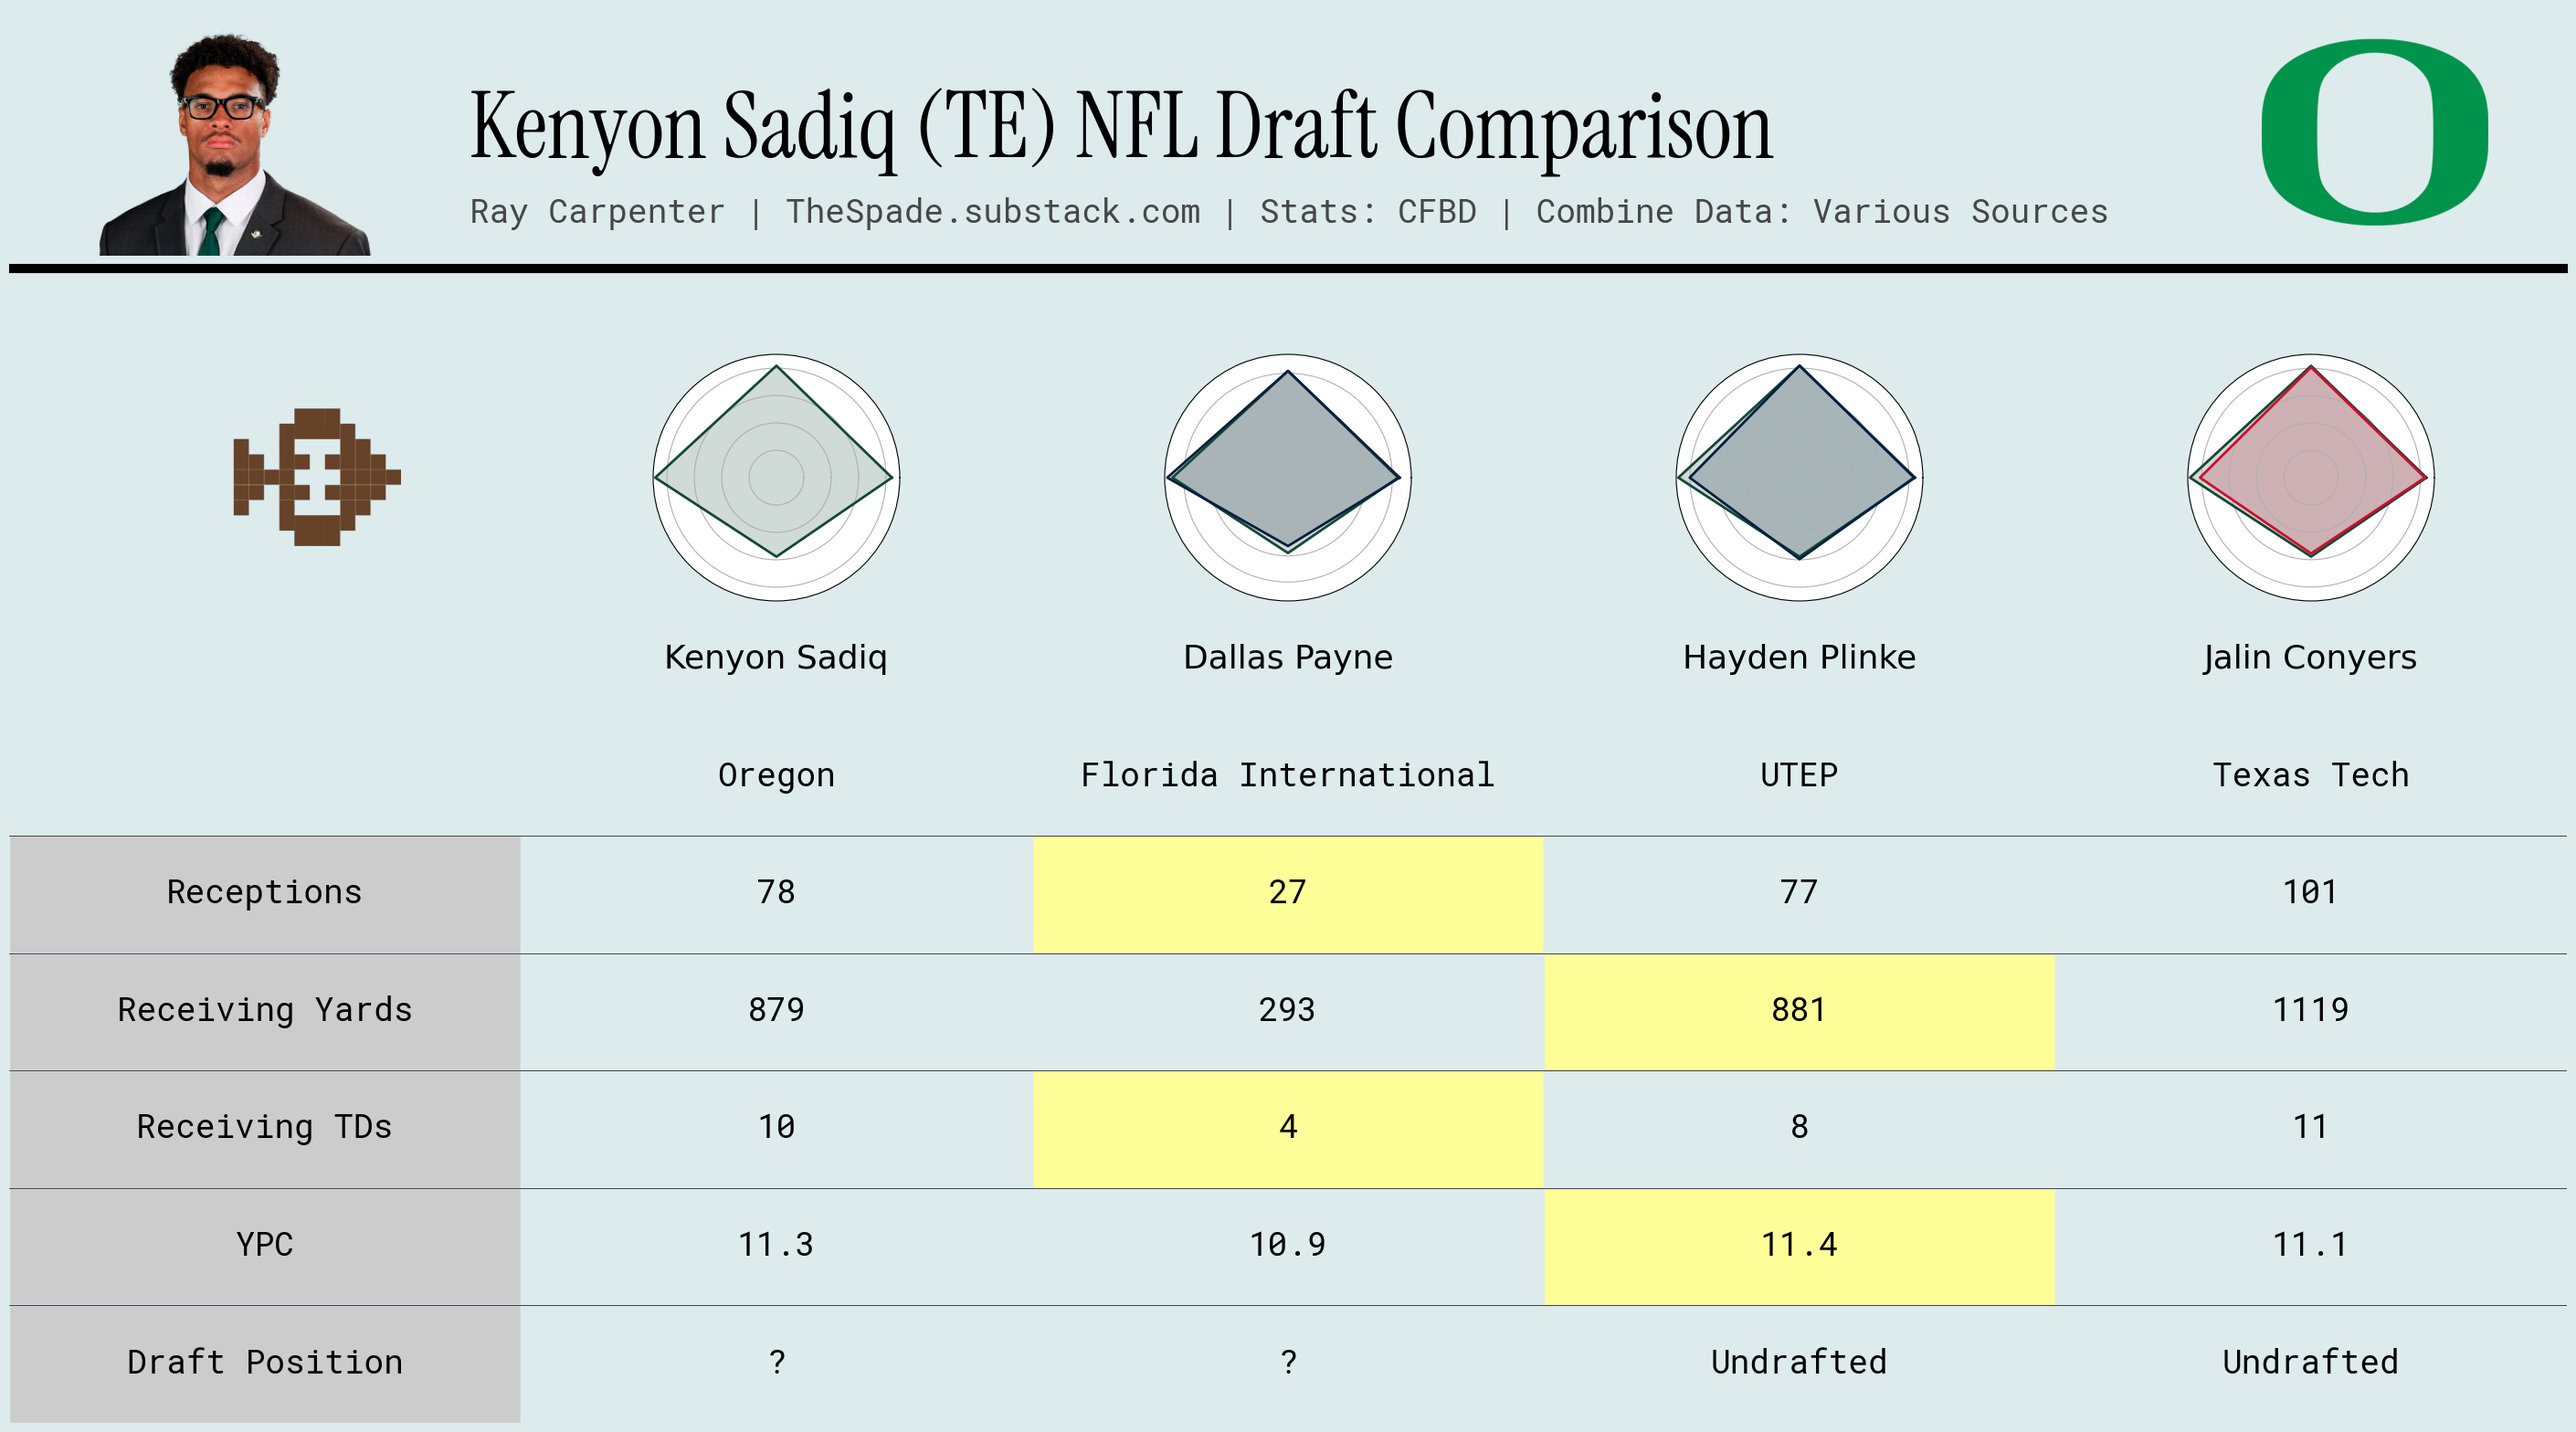
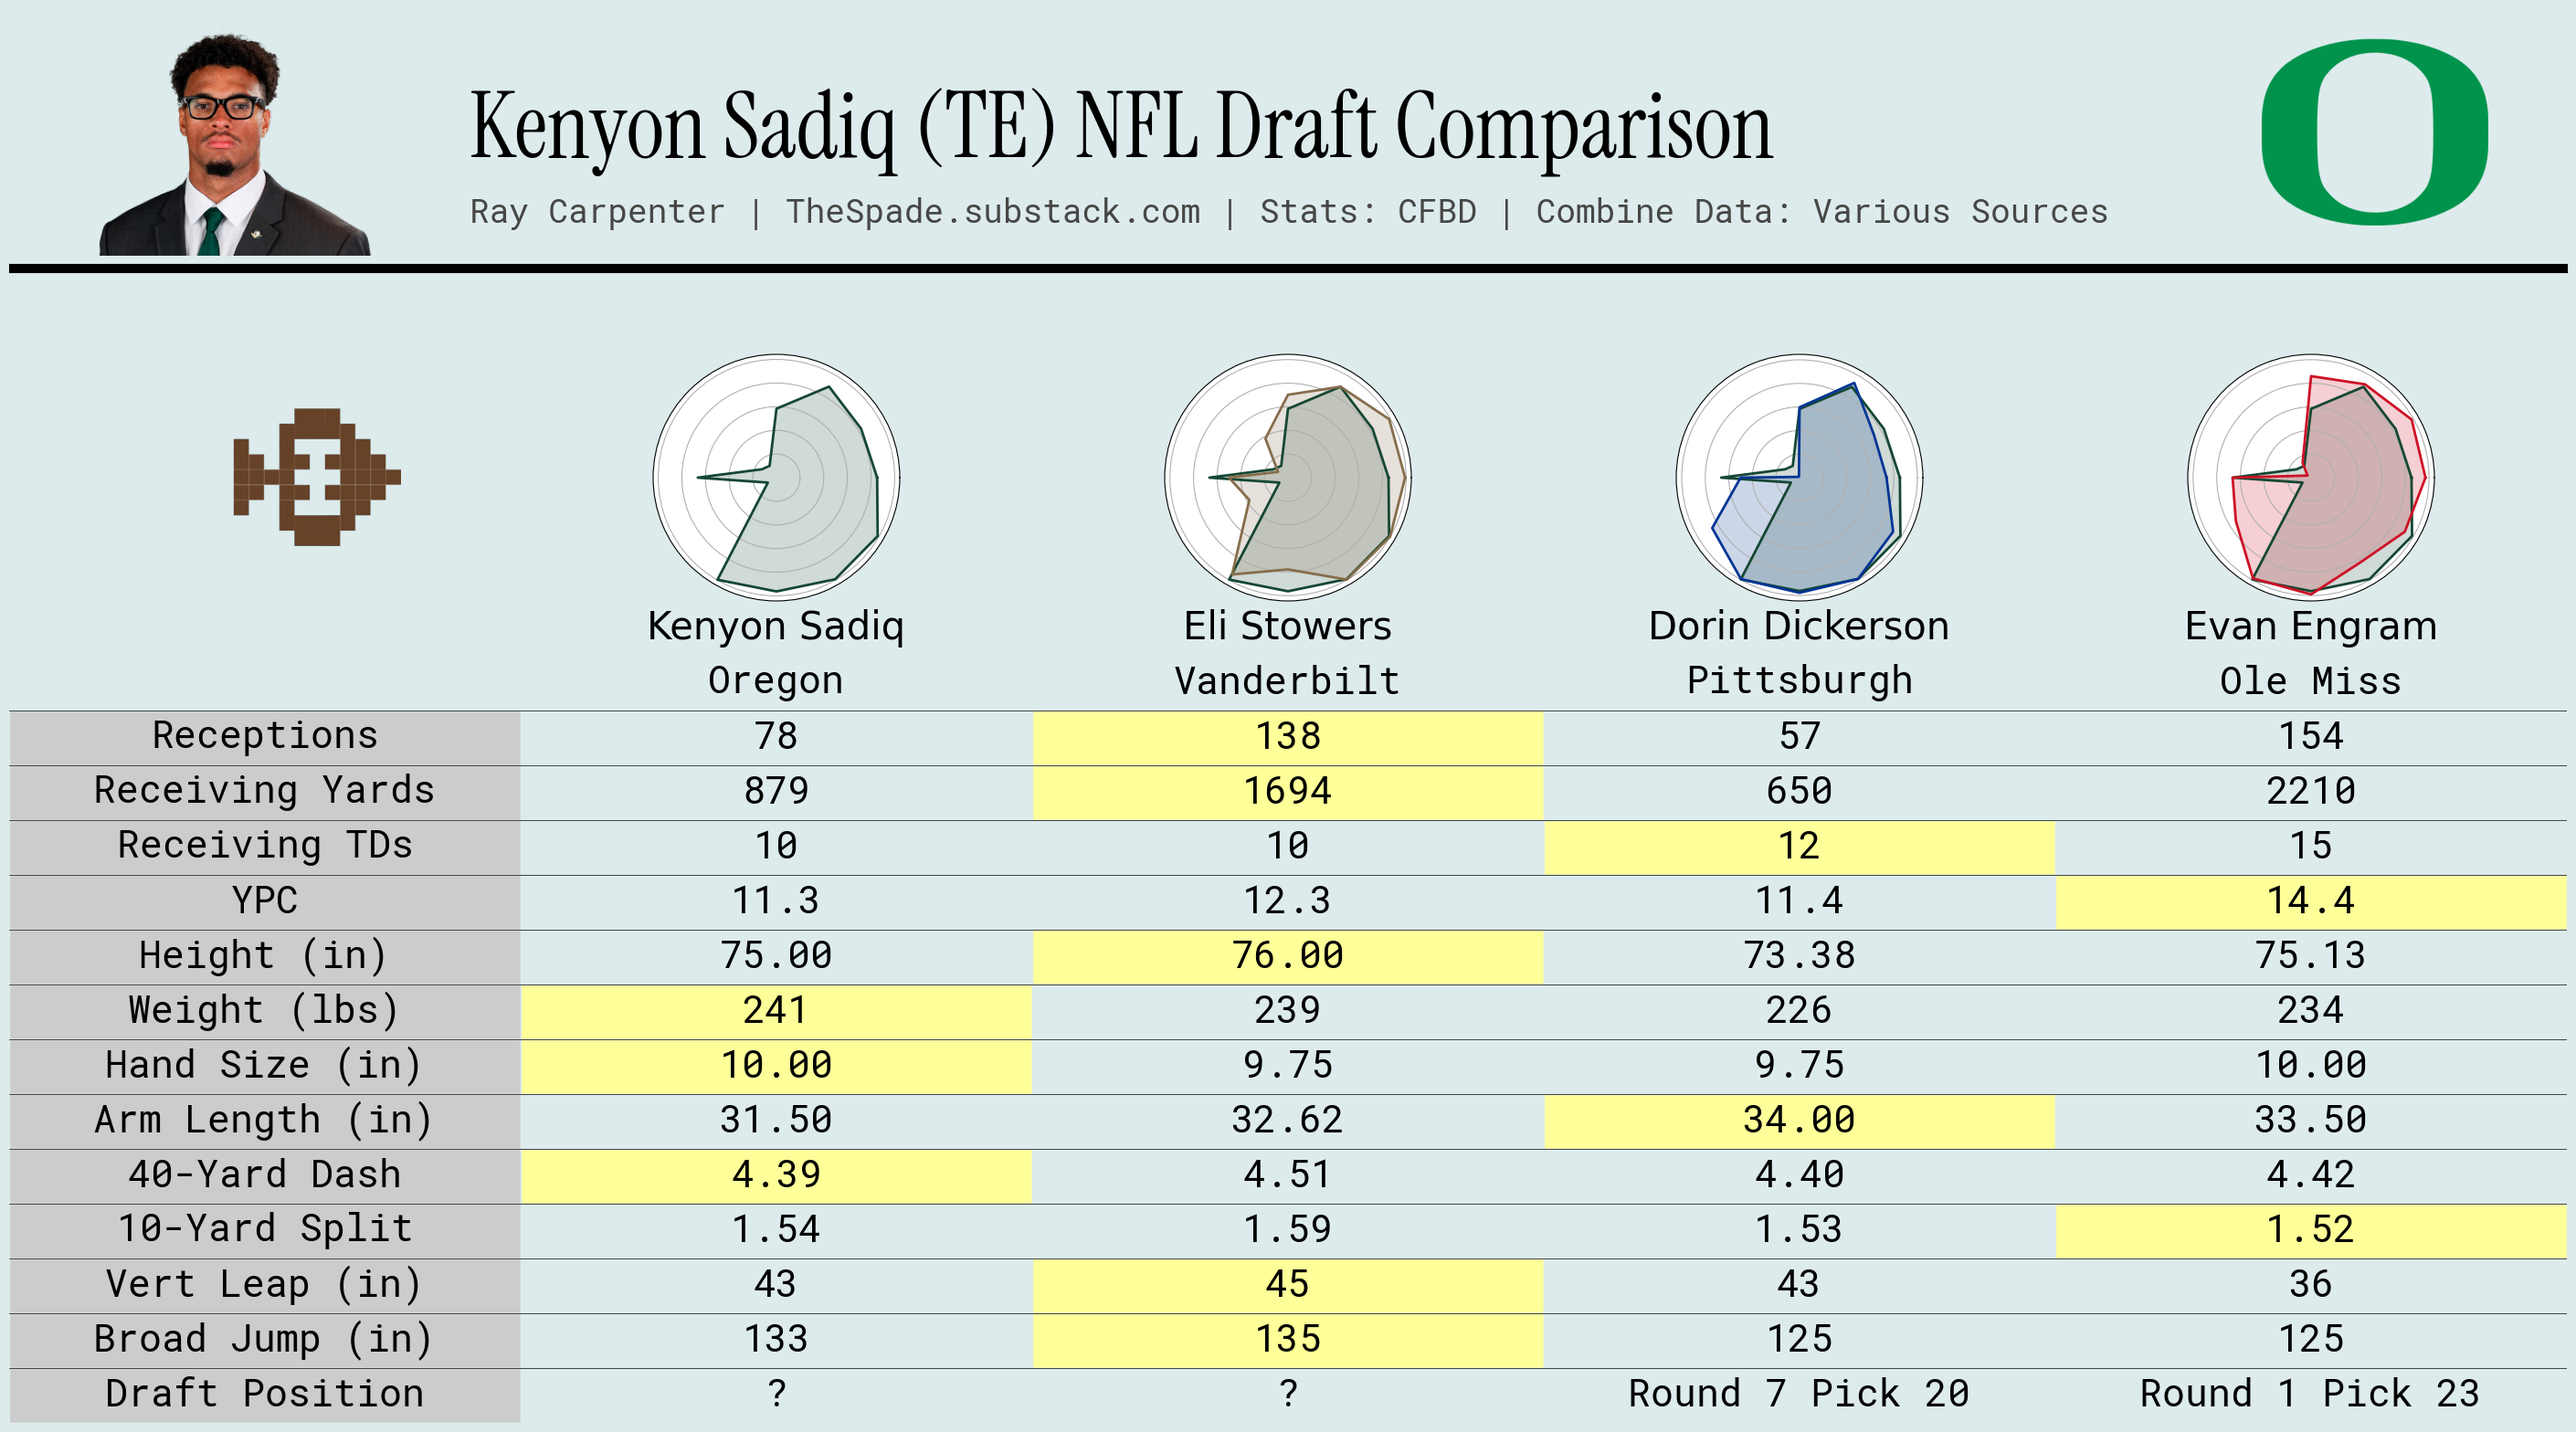
Changes to account for old players

Changed region(s): [[0.1872, 0.25, 0.9986, 1.0], [0.0, 0.4688, 0.2184, 1.0], [0.2496, 0.25, 0.3433, 0.625]]

diff --git a/plotting.py b/plotting.py
@@ -59,12 +59,17 @@ class DraftComparisonPlotter:
     def _get_headshot_url(self, player: str) -> str:
         df_player = self.stats_df[self.stats_df["player"] == player]
         if df_player.empty:
-            raise ValueError(f"No data found for player: {player}")
+            # Fall back to processor data for combine-only players
+            df_player = self.proc.processed_df[self.proc.processed_df["player"] == player]
+        if df_player.empty:
+            return None
         if "athlete_id" not in df_player.columns:
-            raise ValueError("The column 'athlete_id' is not present in the data. Please check your combine file.")
+            return None
         athlete_id = df_player["athlete_id"].iloc[0]
+        if pd.isna(athlete_id) or athlete_id < 0:
+            return None
         return (
-            f"https://a.espncdn.com/combiner/i?img=/i/headshots/college-football/players/full/{athlete_id}.png?"
+            f"https://a.espncdn.com/combiner/i?img=/i/headshots/college-football/players/full/{int(athlete_id)}.png?"
             "w=350&h=254"
         )
 
@@ -79,13 +84,16 @@ class DraftComparisonPlotter:
         fig.patch.set_facecolor("#DDEBEC")
 
         headshot_url = self._get_headshot_url(self.input_player)
-        with urllib.request.urlopen(headshot_url) as url:
-            player_image = Image.open(io.BytesIO(url.read()))
-
-        player_img_ax = fig.add_axes([0.01, 0.76, 0.15, 0.15], frameon=False)
-        player_img_ax.imshow(player_image)
-        player_img_ax.set_xticks([])
-        player_img_ax.set_yticks([])
+        if headshot_url:
+            try:
+                with urllib.request.urlopen(headshot_url) as url:
+                    player_image = Image.open(io.BytesIO(url.read()))
+                player_img_ax = fig.add_axes([0.01, 0.76, 0.15, 0.15], frameon=False)
+                player_img_ax.imshow(player_image)
+                player_img_ax.set_xticks([])
+                player_img_ax.set_yticks([])
+            except Exception:
+                pass
 
         title_text = f"{self.input_player} ({self.proc.player_position}) NFL Draft Comparison"
         fig.text(

diff --git a/data_processor.py b/data_processor.py
@@ -69,7 +69,25 @@ class DataProcessor:
 
         df = df.drop_duplicates(subset=["player", "year", "team", "athlete_id"])
         if input_player not in df["player"].unique():
-            raise ValueError(f"Input player {input_player} not found in data.")
+            # Player may only exist in combine data (e.g., OL with no production stats)
+            full_combine = pd.read_csv(COMBINE_STATS_PATH)
+            player_combine = full_combine[full_combine["player"] == input_player]
+            if player_combine.empty:
+                raise ValueError(f"Input player {input_player} not found in data.")
+            pos_gp = player_combine["POS_GP"].iloc[0]
+            peers = full_combine[full_combine["POS_GP"] == pos_gp].copy()
+            peers = peers.rename(columns={"Year": "year"})
+            peers["year"] = peers["year"].astype(str)
+            if "position" not in peers.columns:
+                peers["position"] = peers["POS_GP"]
+            if "team" not in peers.columns:
+                peers["team"] = peers["College"]
+            # Fill missing athlete_ids with synthetic negative values so groupby works
+            missing_id = peers["athlete_id"].isna()
+            if missing_id.any():
+                peers.loc[missing_id, "athlete_id"] = [-1 * (i + 1) for i in range(missing_id.sum())]
+            df = pd.concat([df, peers], ignore_index=True)
+            df = df.drop_duplicates(subset=["player", "year", "athlete_id"], keep="first")
         df_player_year = df[(df["player"] == input_player) & (df["year"] == player_year)]
         if df_player_year.empty:
             fallback_year = df.loc[df["player"] == input_player, "year"].max()

diff --git a/main.py b/main.py
@@ -8,7 +8,7 @@ from config import FILTERED_STATS_PATH, COMBINE_STATS_PATH
 def main():
     stats_df = load_data(FILTERED_STATS_PATH, COMBINE_STATS_PATH)
     
-    input_player = "Sonny Styles"
+    input_player = "Mansoor Delane"
     processor = DataProcessor(stats_df)
     processor.process(input_player)
 

diff --git a/config.py b/config.py
@@ -240,7 +240,8 @@ POSITION_BASELINES = {
     ],
         "P": [
       "punting_no","punting_yds","punting_in_20","punting_tb"
-    ]
+    ],
+        "OL": []
 }
 
 COLUMN_RENAME_MAP = {
